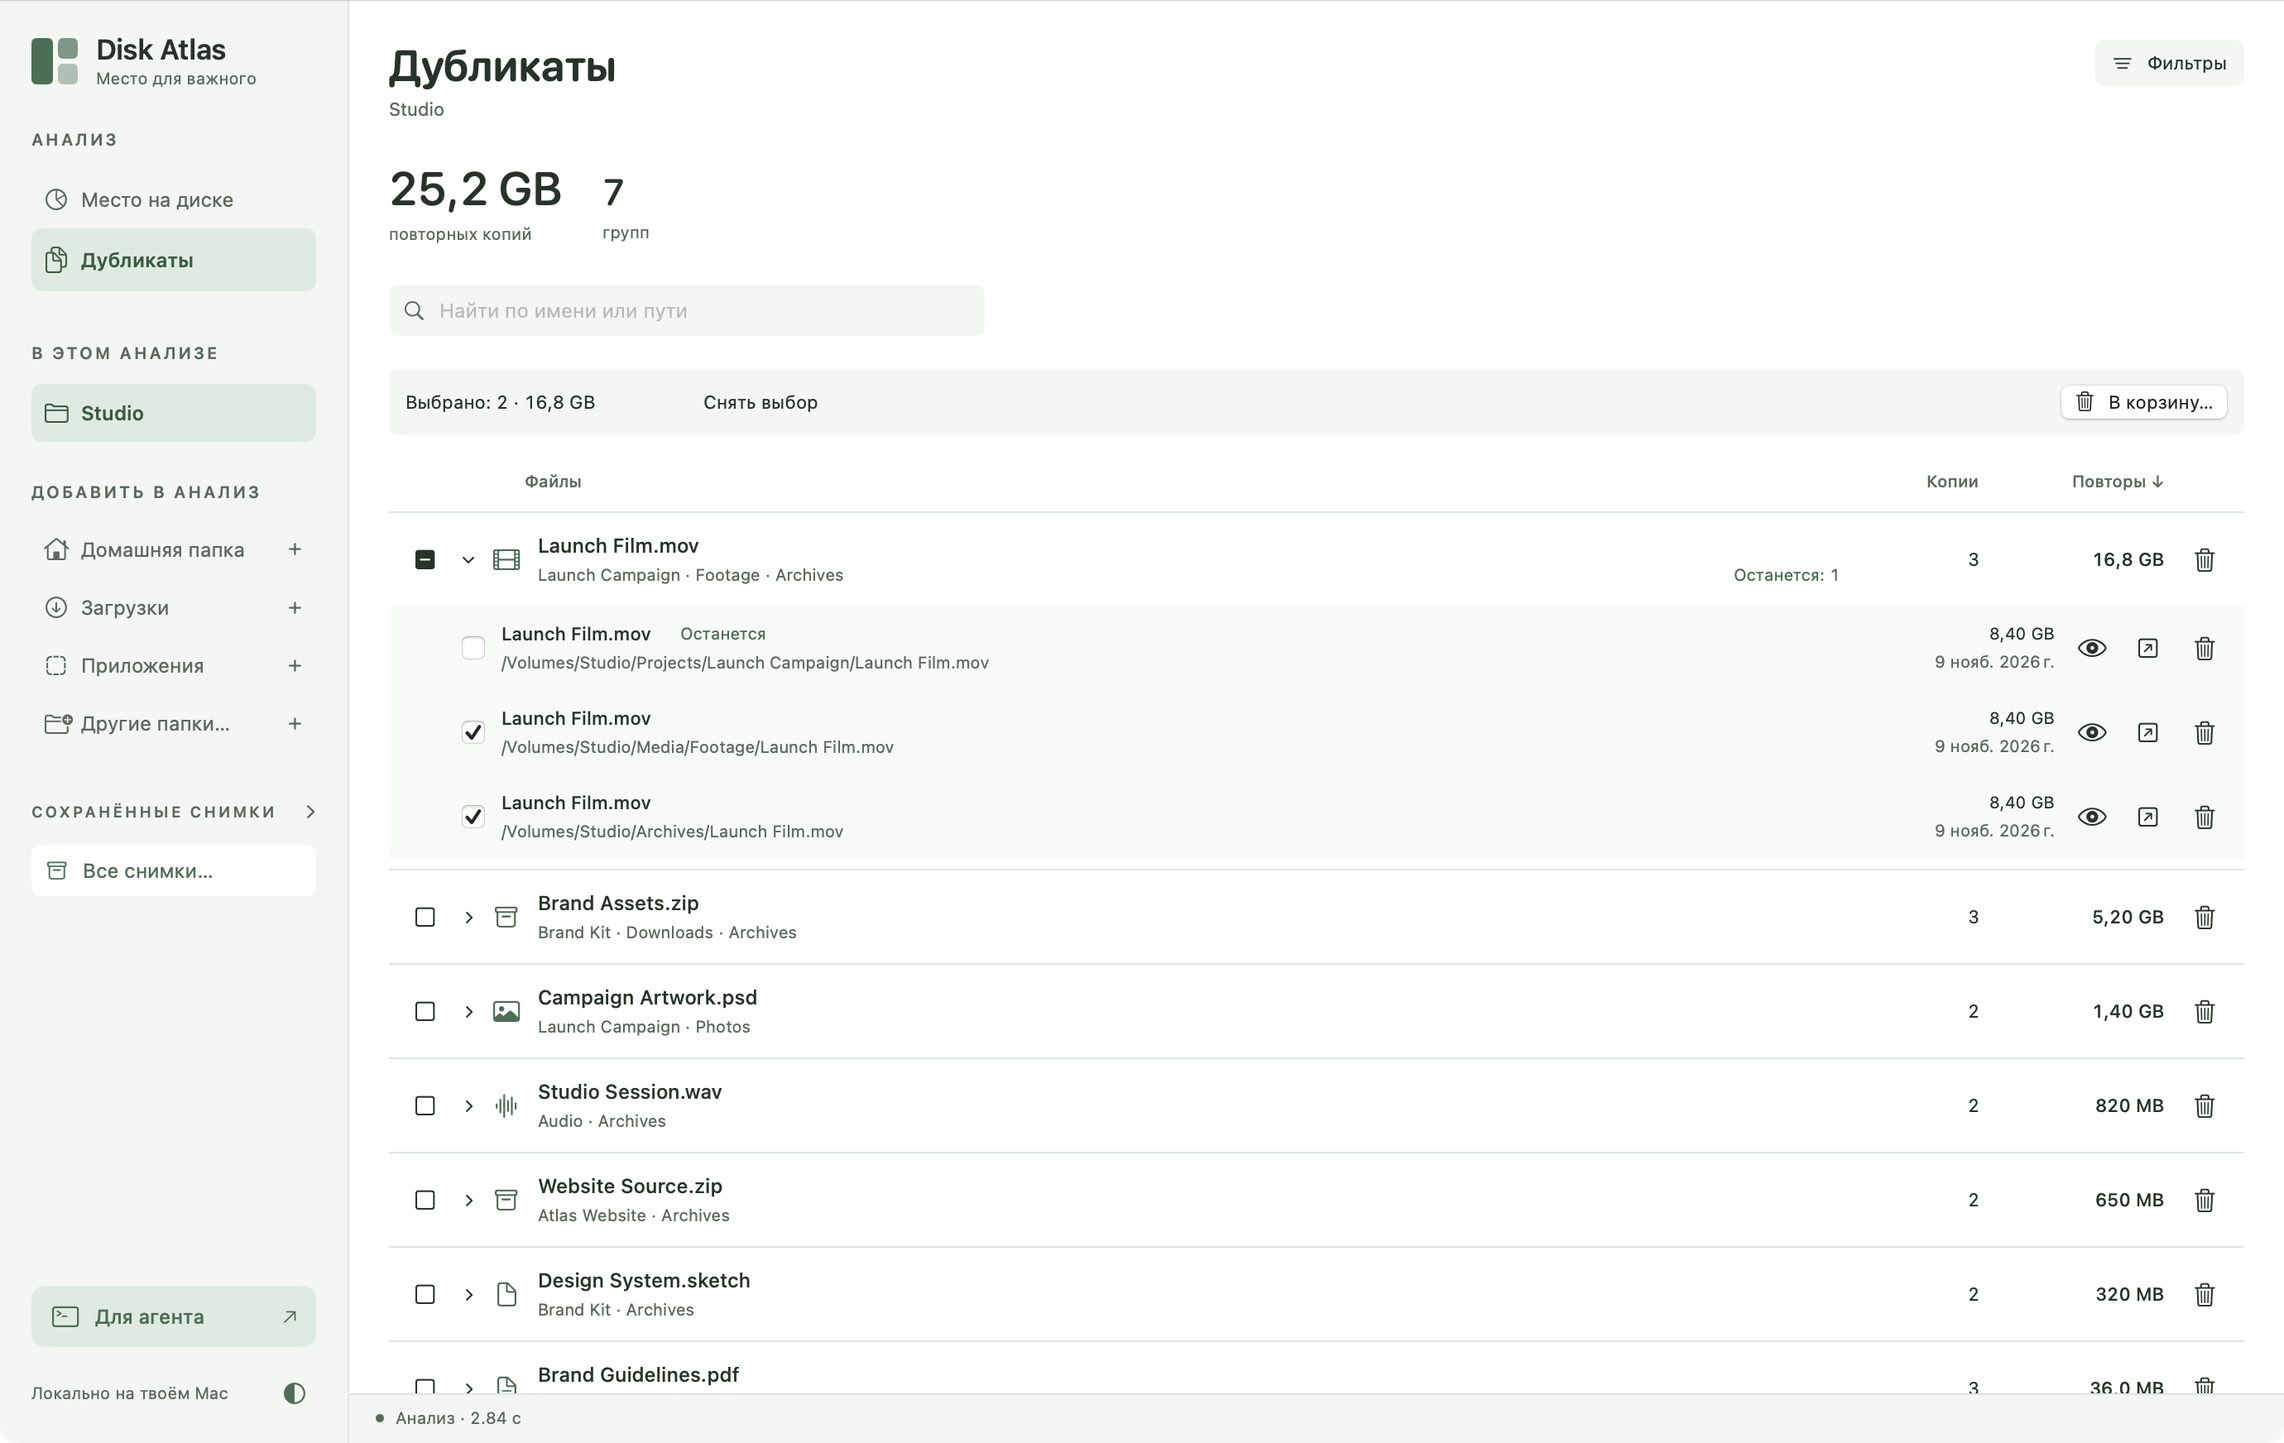
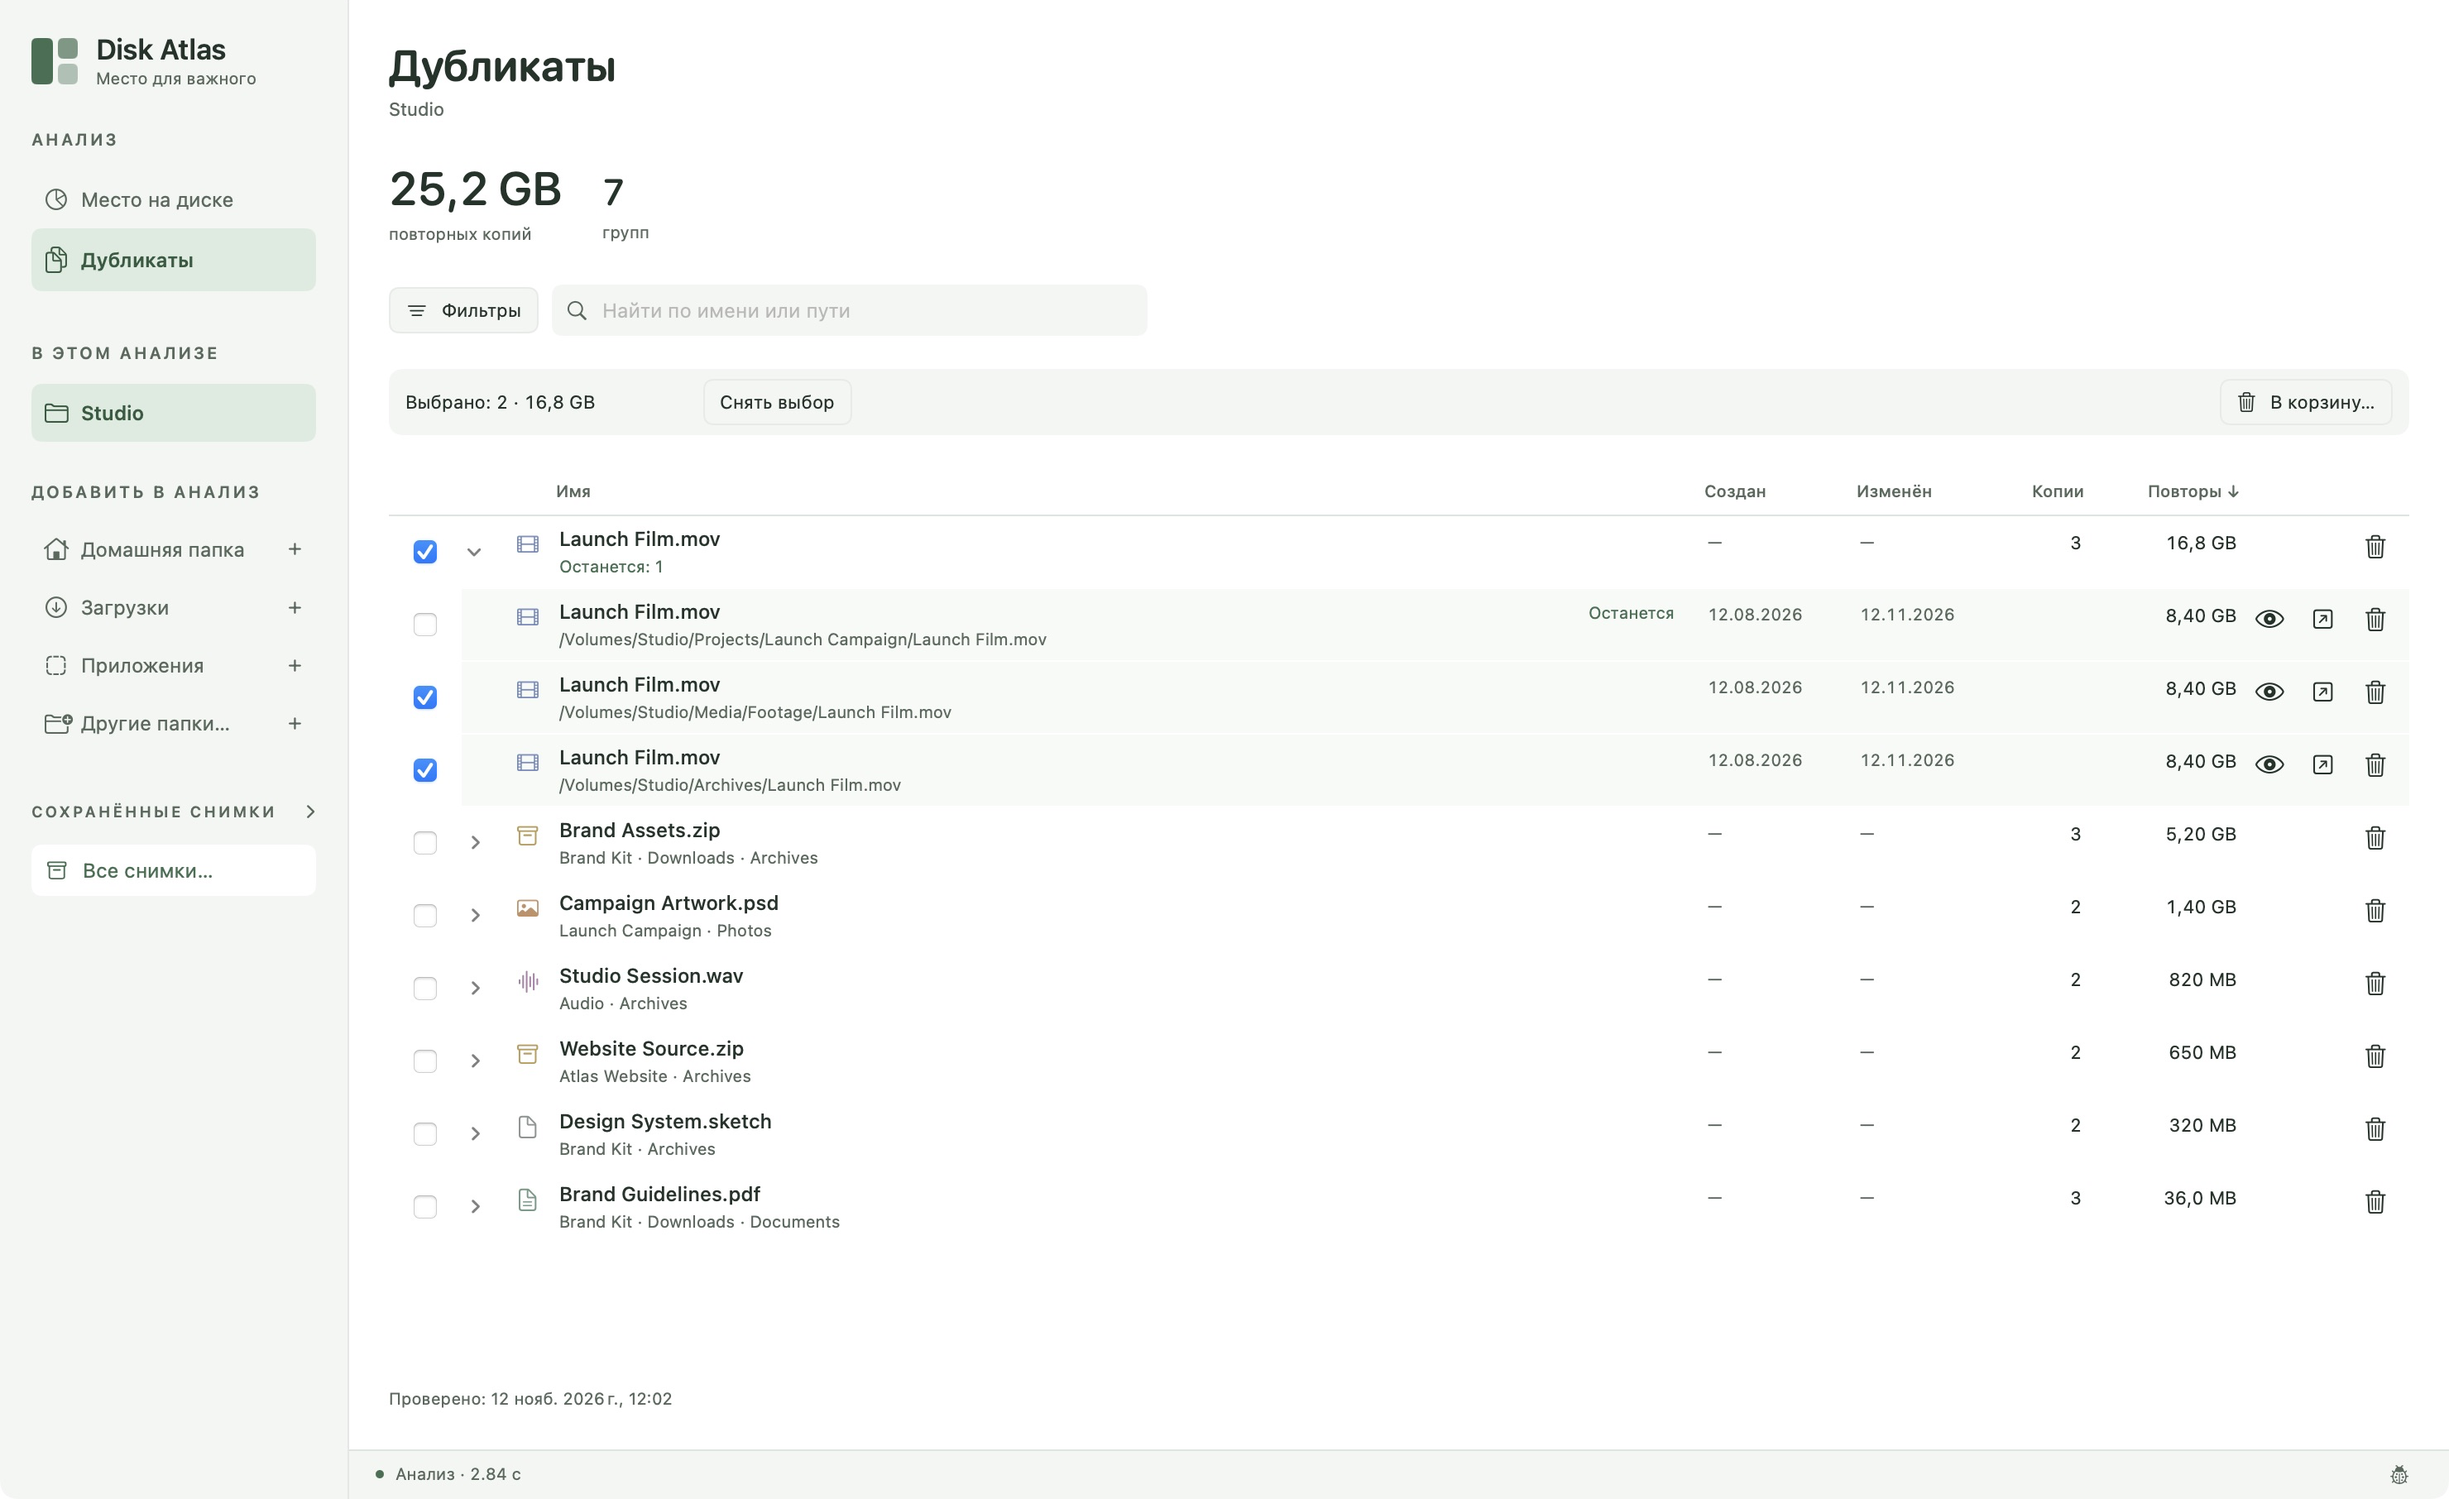
Refresh interface screenshots for Disk Atlas 0.15.5
Replace English and Russian previews with current native views and illustrative Studio metadata. Show the new map palette, native duplicate rows, duplicate highlights, confirmation styling and feedback drafts. No real scan history, cleanup or feedback transmission.

diff --git a/docs/images/README.md b/docs/images/README.md
@@ -5,8 +5,8 @@ created: "2026-11-10"
 ---
 # Interface screenshots
 
-Refreshed on November 10, 2026 from the **0.15.2 (34)** interface,
-source revision `f3728326d9a448c3e571705f6fc82f1985da9c40`.
+Refreshed on November 12, 2026 from the **0.15.5 (37)** interface,
+source revision `0e36f4ad884a39ab1df9b669204627f82e9b6002`.
 
 The images show the app's native views with fabricated metadata rooted at
 `/Volumes/Studio`. Folder names, file paths, capacities, sizes, dates and durations
@@ -17,12 +17,17 @@ No real scan history, personal paths or file contents are included.
 | --- | --- |
 | `workspace-dark.png`, `workspace-light-ru.png` | Map selection, expanded folder tree and inspector |
 | `start-en.png`, `start-ru.png` | Disk capacity, folder selection and recent saved snapshots |
-| `duplicates-en.png`, `duplicates-ru.png` | Expanded copies, explicit checkboxes and selected byte total |
+| `duplicates-en.png`, `duplicates-ru.png` | Native duplicate rows, full paths, dates, selection and selected byte total |
+| `duplicates-map-en.png`, `duplicates-map-ru.png` | Explicit group selection highlights its copies on the map |
 | `history-en.png`, `history-ru.png` | Snapshot and duplicate-report storage sizes |
-| `trash-review-en.png`, `trash-review-ru.png` | Full-path review and the remaining copy |
+| `trash-review-en.png`, `trash-review-ru.png` | Full-path review, the remaining copy and destructive confirmation styling |
+| `feedback-en.png`, `feedback-ru.png` | Illustrative suggestion draft, optional email, Attach and app/macOS details |
 
 English images use the dark theme; Russian images use the light theme.
 Screenshots capture only the relevant app content, excluding system title bars
-and capture indicators. No cleanup action was executed to produce them.
+and capture indicators. Only the outer title-bar strip is cropped; interface
+content and colors are not retouched. No cleanup action was executed, no feedback
+was sent and automatic diagnostics stayed off. The feedback text is a fabricated
+example, not an actual user report.
 The demonstration data and temporary rendering app are not distributed with
 Disk Atlas and are not part of the repository.

diff --git a/README.ru.md b/README.ru.md
@@ -193,6 +193,8 @@ shasum -a 256 -c SHA256SUMS.txt
 
 ![Группы дубликатов с раскрытыми копиями, явным выбором и общим объёмом выбранного](docs/images/duplicates-ru.png)
 
+![Выбранная группа дубликатов: копии на карте и полные пути в списке](docs/images/duplicates-map-ru.png)
+
 Разные размеры не сравниваются. Сначала проверяются первые и последние 64 КиБ.
 Если осталось ровно два больших файла, они сразу сравниваются побайтно, без
 лишнего полного прохода хеширования. Для больших групп кандидатов используется
@@ -353,6 +355,8 @@ generated properties, coverage/CRAP, сложность и выбранные м
 запросы, содержимое файлов, идентификатор устройства/пользователя, crash capture и
 запись сессии не собираются; очереди на диске нет. Ручная обратная связь работает
 отдельно, CLI/MCP остаются офлайн.
+
+<img src="docs/images/feedback-ru.png" width="520" alt="Черновик обратной связи: текст, необязательная почта, вложение и технические сведения">
 
 ## Контакты
 

diff --git a/README.md b/README.md
@@ -187,6 +187,8 @@ not replace them. The overview’s underlined **Files with copies** metric opens
 
 ![Duplicate groups with expanded copies, explicit selection and its total size](docs/images/duplicates-en.png)
 
+![Select a duplicate group to highlight its copies on the folder map](docs/images/duplicates-map-en.png)
+
 Different sizes are never compared. The checker samples the first and last 64 KiB.
 For exactly two surviving large files it goes straight to byte comparison,
 skipping a redundant full-file hash pass. Larger candidate buckets use fast
@@ -339,6 +341,8 @@ duplicate-check timings, object counts and fixed error codes. It defaults off;
 turning it off cancels pending sending. No names, paths, search terms, file contents,
 device/user ID, crash capture, session recording or persisted retry queue. Manual
 feedback works independently. CLI/MCP remain offline.
+
+<img src="docs/images/feedback-en.png" width="520" alt="Feedback draft with message, optional email, screenshot attachment and technical details">
 
 ## Contact
 
